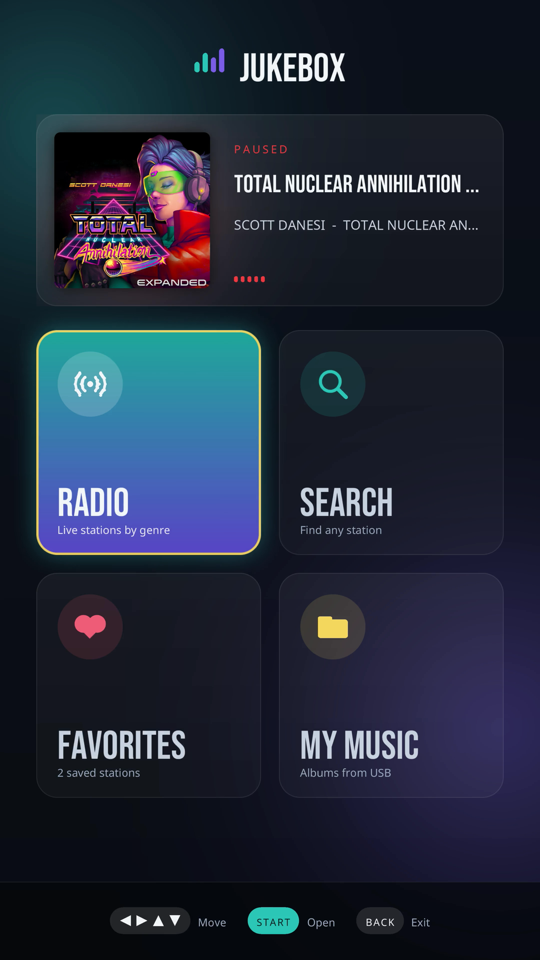
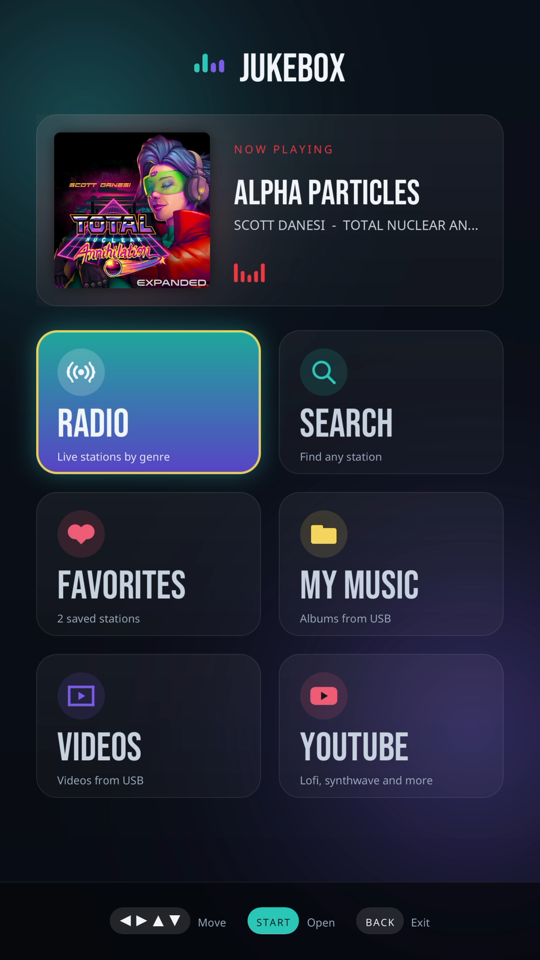
New main menu screenshot (six tiles)
Claude-Session: https://claude.ai/code/session_01GZYNK4JhPSyXaPdn2KdgrP

diff --git a/docs/index.html b/docs/index.html
@@ -128,7 +128,7 @@ footer a { color: var(--dim); }
     <h2>See it <span>play</span></h2>
     <p class="intro">Everything is built for the playfield screen and the cabinet's buttons, with a button legend along the bottom of every screen.</p>
     <div class="shots">
-      <figure><img src="assets/main-menu.png" alt="Main menu with the Now Playing card and Radio, Search, Favorites and My Music tiles"><figcaption>The main menu</figcaption></figure>
+      <figure><img src="assets/main-menu.png" alt="Main menu with the Now Playing card and Radio, Search, Favorites, My Music, Videos and YouTube tiles"><figcaption>The main menu</figcaption></figure>
       <figure><img src="assets/now-playing.png" alt="Now Playing with album art, progress bar and spectrum"><figcaption>Now Playing takes on the album's colors</figcaption></figure>
       <figure><img src="assets/radio-browse.png" alt="Radio category list with the mini player"><figcaption>Browsing radio, with the mini player</figcaption></figure>
     </div>

diff --git a/README.md b/README.md
@@ -3,7 +3,7 @@
 **Website: [bla1ze.github.io/atgames-juke-box](https://bla1ze.github.io/atgames-juke-box/)**
 
 <p align="center">
-  <img src="screenshots/main-menu.png" width="280" alt="Main menu with the Now Playing card and Radio, Search, Favorites and My Music tiles" />
+  <img src="screenshots/main-menu.png" width="280" alt="Main menu with the Now Playing card and Radio, Search, Favorites, My Music, Videos and YouTube tiles" />
   <img src="screenshots/now-playing.png" width="280" alt="Now Playing with album art, progress bar and spectrum" />
   <img src="screenshots/radio-browse.png" width="280" alt="Radio category list with the mini player" />
 </p>
